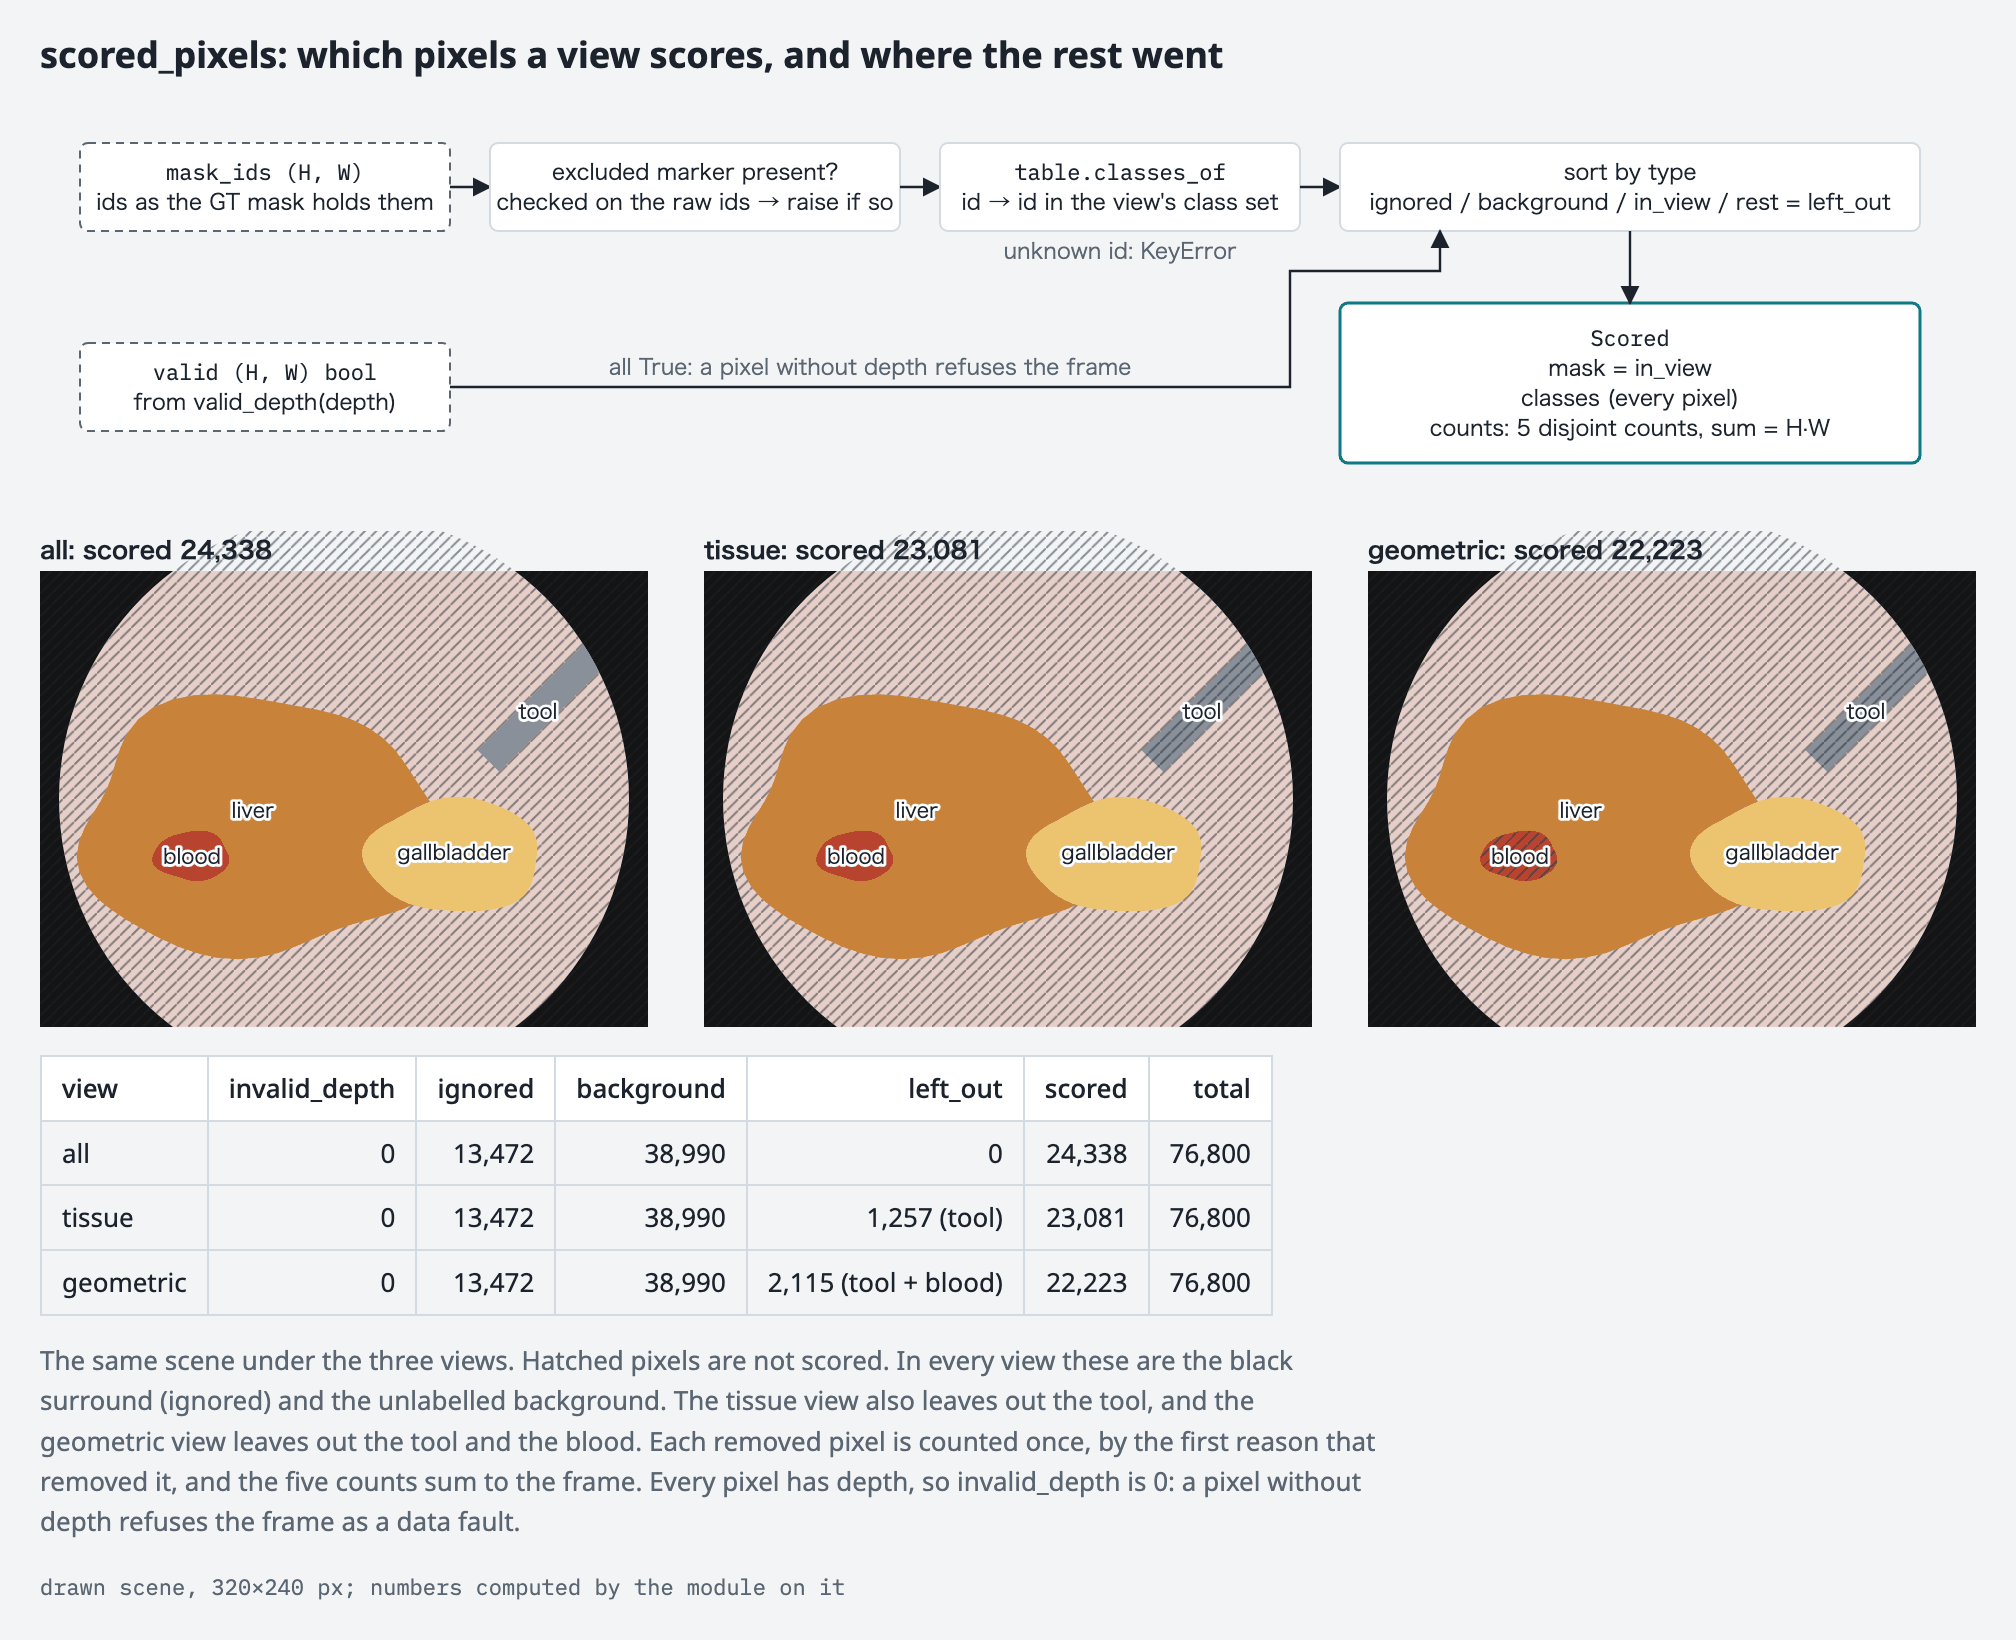
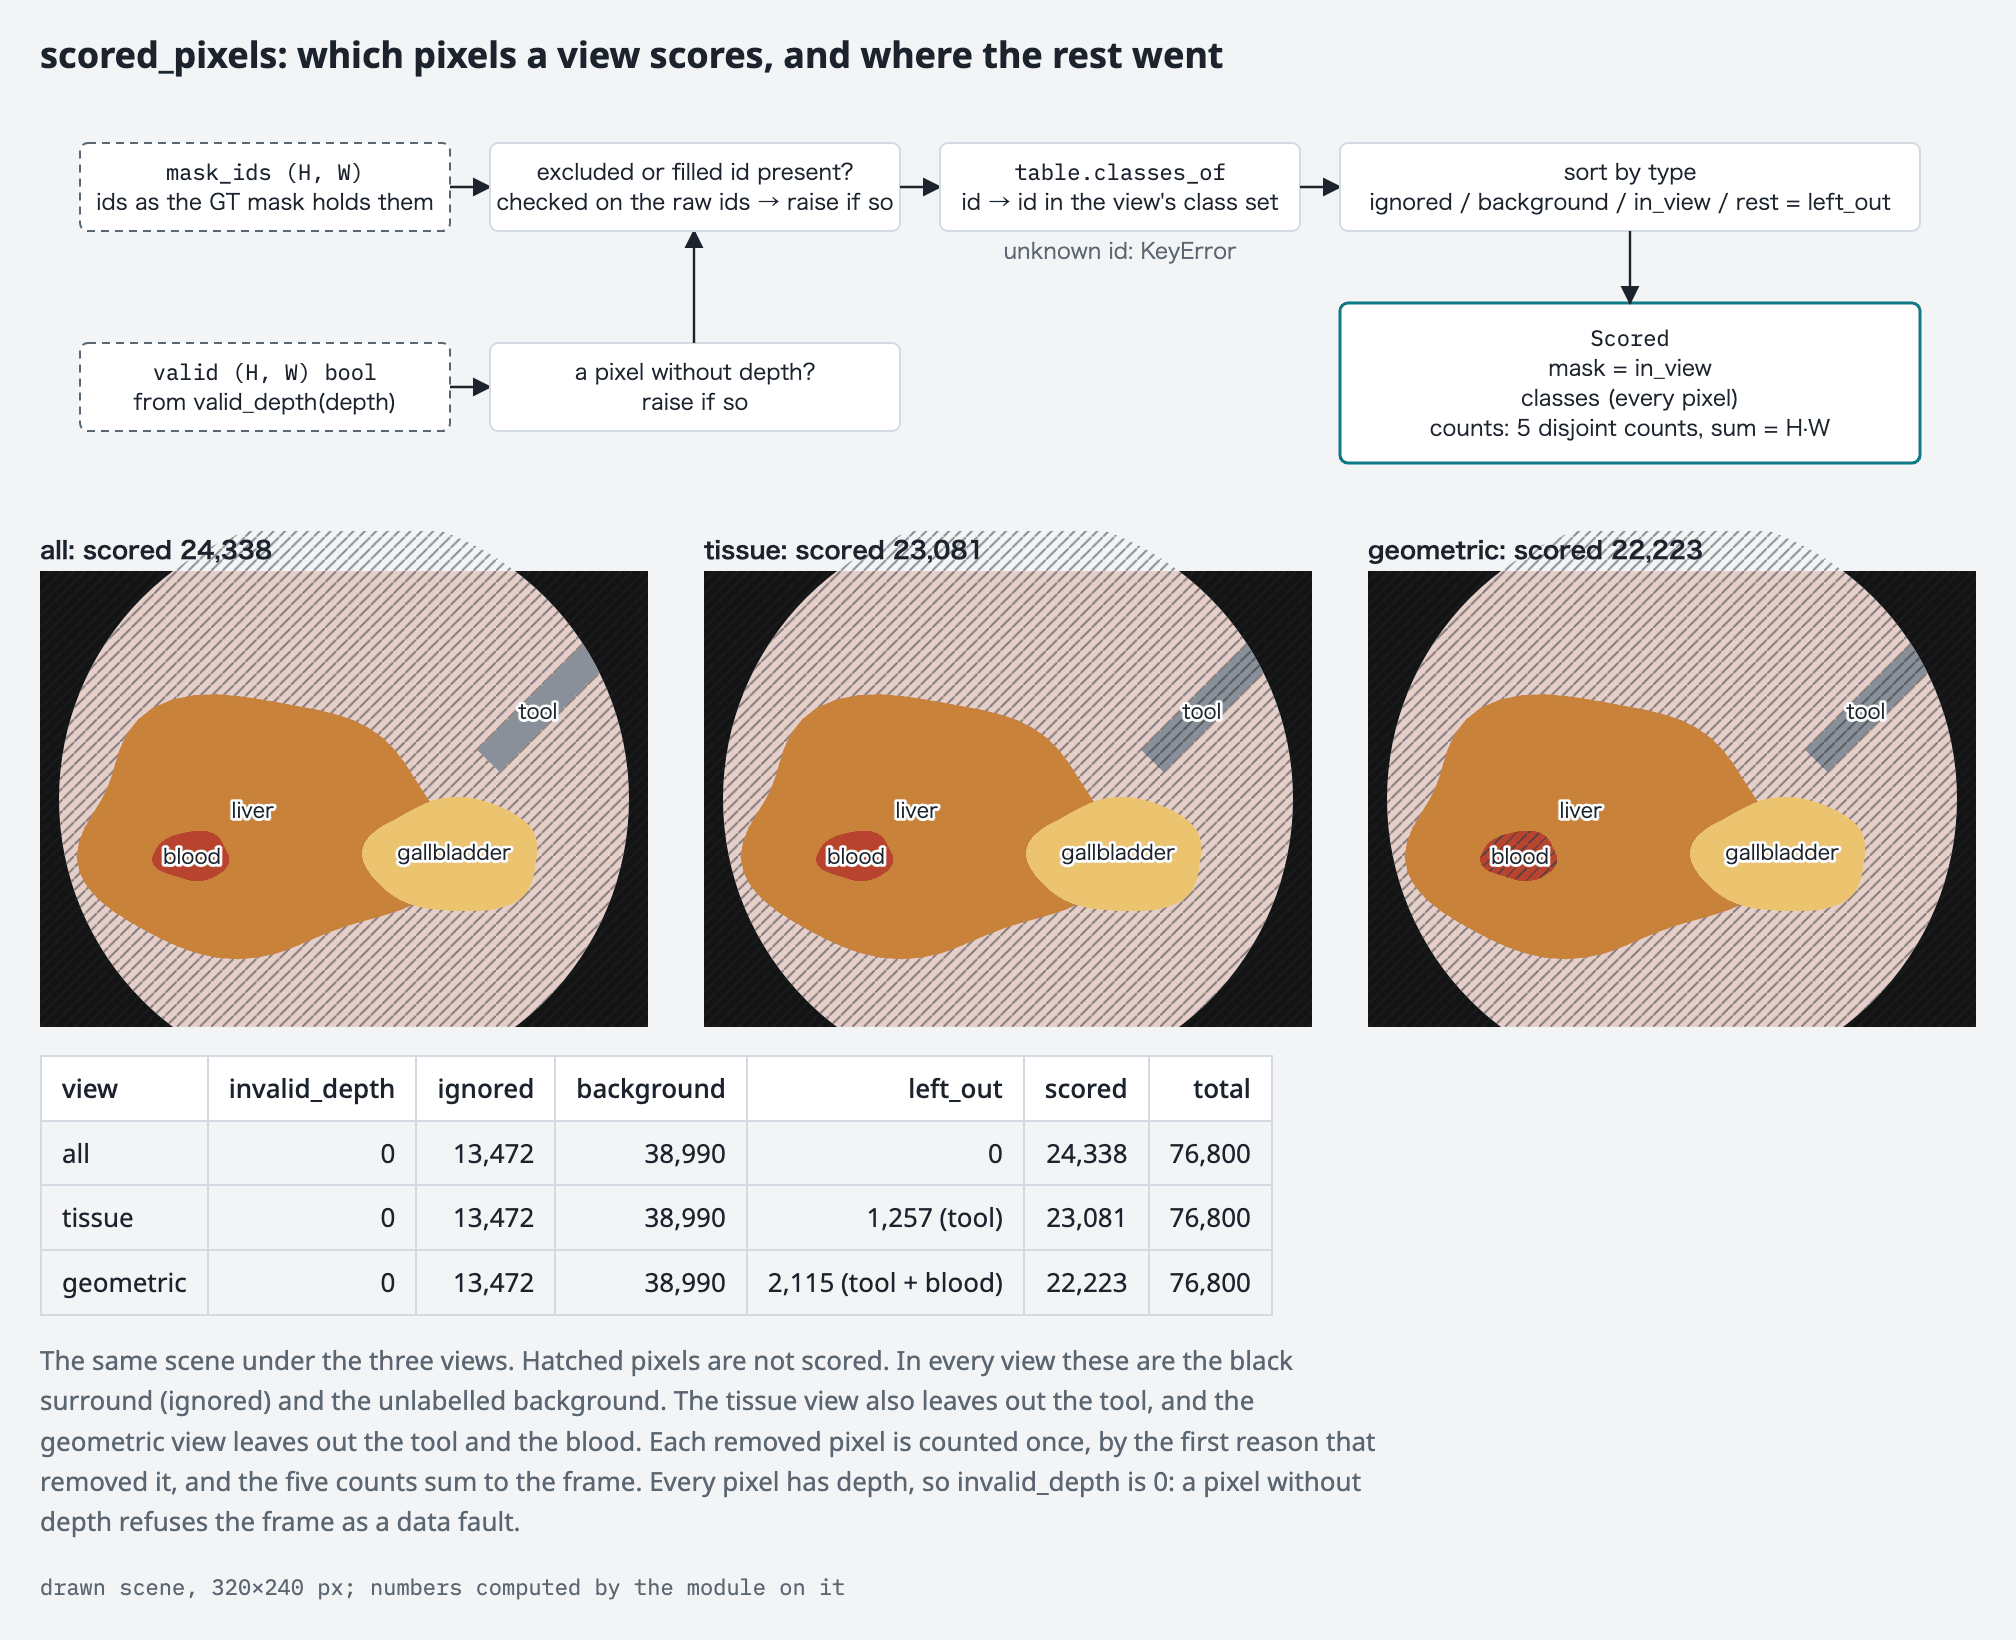
docs: scored.py's header points to the normal-mode figure, and three figures say what they show
- evalkit/scored.py: the header no longer says the figure is drawn in pilot mode
  with a patch without depth. porting.md drops the note that deferred it.
- scored_pixels.png: the flow checks depth first, and refuses a filled id
  beside an excluded one, as scored_pixels does.
- vi.png: the gallbladder lies in all 4 rows; every row with two colours
  adds to VI_merge.
- time_iou.png: the mean is taken over the unrounded IoUs, so it is 0.783
  where the rounded ones give 0.784.

Changed region(s): [[0.2812, 0.2177, 0.5625, 0.2488], [0.2812, 0.0933, 0.4062, 0.1244]]

diff --git a/evalkit/scored.py b/evalkit/scored.py
@@ -7,8 +7,7 @@ under the first reason that removes it, so the counts sum to the frame.
 `frame_is_excluded` finds a frame that an `excluded` class takes out, and
 `scored_pixels` refuses such a frame too. `docs/evaluation.md` fixes the
 order of the reasons ("Fail closed") and the refusal of invalid depth
-("Inputs"). `docs/figures/scored_pixels.png` shows this on a drawn scene in
-pilot mode. The scene has a patch without depth, which normal mode refuses.
+("Inputs"). `docs/figures/scored_pixels.png` shows this on a drawn scene.
 """
 from __future__ import annotations
 

diff --git a/docs/porting.md b/docs/porting.md
@@ -83,10 +83,7 @@ not compared:
    - the entry point's `--pilot`, and the `pilot` argument of
      `score_condition` with the imports it needs;
    - the `pilot` arguments of `evalkit/scored.py` and `evalkit/inst_bf.py`;
-   - every sentence of a hashed module that says what pilot mode does;
-   - the sentences of `evalkit/scored.py`'s header that say
-     `docs/figures/scored_pixels.png` is drawn in pilot mode, with a patch
-     without depth. The figure is drawn in normal mode now.
+   - every sentence of a hashed module that says what pilot mode does.
 
    The normal-mode tests must still pass, and then the evaluator is frozen.
    Moving pilot mode out of `evalkit/` was the alternative. It could then be
